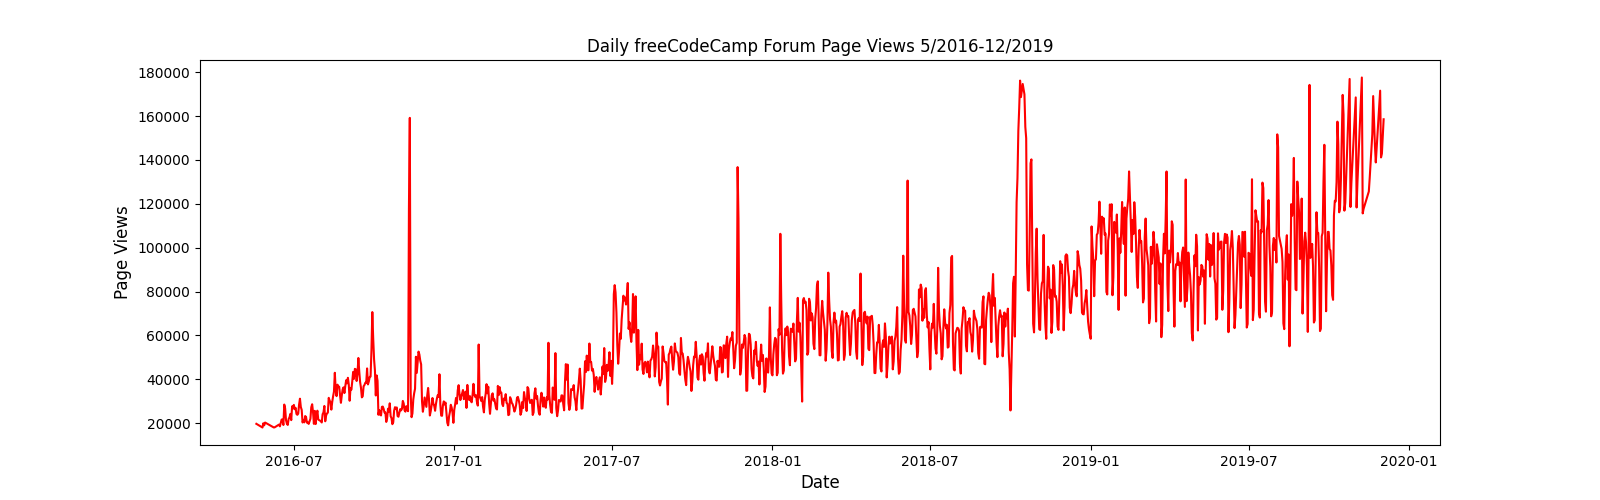
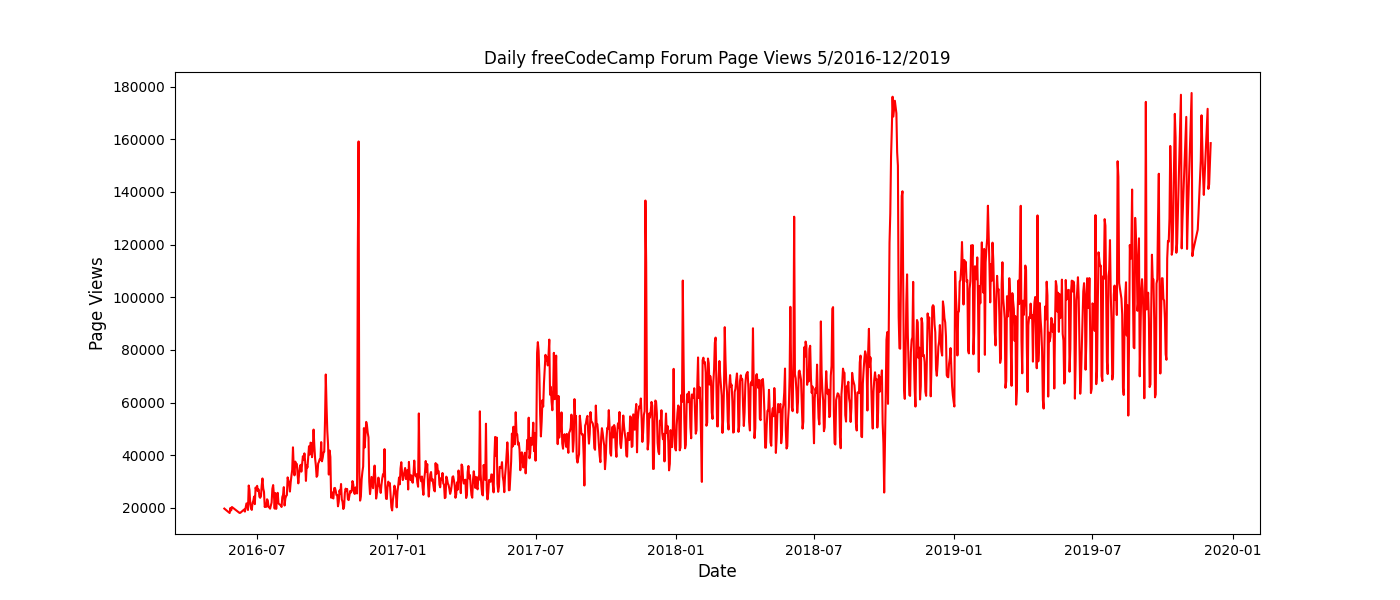
commit for drawing the second figure

diff --git a/time_series_visualizer.py b/time_series_visualizer.py
@@ -4,16 +4,43 @@ import seaborn as sns
 from pandas.plotting import register_matplotlib_converters
 register_matplotlib_converters()
 
+# /* ********************************************************************* */
+# /* ********************************************************************* */
+# /* ********************************************************************* */
+# /* ********************************************************************* */
+list_months=['January','February','March','April','May','June','July','August','September','October','November','December']
+# /* ********************************************************************* */
+# /* ********************************************************************* */
 # Import data (Make sure to parse dates. Consider setting index column to 'date'.)
 df = pd.read_csv('fcc-forum-pageviews.csv', index_col='date', sep=',', parse_dates=True)
-print(df)
+# print(df)
+# print(df.shape)
+# /* ********************************************************************* */
+# /* ********************************************************************* */
 # Clean data
-df = df[(df['value'] > df['value'].quantile(0.025)) & (df['value'] < df['value'].quantile(0.975))]
+# Clean the data by filtering out days when the page views were in the top 2.5% of the dataset or bottom 2.5% of the dataset
+#df = df[(df['value'] > df['value'].quantile(0.025)) & (df['value'] < df['value'].quantile(0.975))]
+# print("Bottom Quantile 2.5%: {}".format(df['value'].quantile(0.025)))
+# print("Top Quantile 2.5%: {}".format(df['value'].quantile(0.975)))
+
+df_1 = df['value'] <= df['value'].quantile(0.025)
+# print("df_1: {} Shape: {}".format(df_1, df_1.shape))
+df_2 = df['value'] >= df['value'].quantile(0.975)
+# print("df_2: {} Shape: {}".format(df_2, df_2.shape))
+cond = (df_1 | df_2)
+# print("Resulting df: {} Shape: {}".format(cond, cond.shape))
+df = df.drop(index=df[cond].index)
+# print("Cleaned df: {} Shape: {}".format(df, df.shape))
+
+# /* ********************************************************************* */
+# /* ********************************************************************* */
+# /* ********************************************************************* */
+# /* ********************************************************************* */
 
 def draw_line_plot():
     # Draw line plot
-    fig, axes= plt.subplots(figsize=(16,5))
-    plt.plot(df, color='red')
+    fig, axes= plt.subplots(figsize=(14,6))
+    plt.plot(df, linestyle="solid", marker=None, color='red')
     plt.title("Daily freeCodeCamp Forum Page Views 5/2016-12/2019", fontsize=12)
     plt.xlabel('Date', fontsize=12)
     plt.ylabel('Page Views', fontsize=12)
@@ -22,23 +49,51 @@ def draw_line_plot():
     fig.savefig('line_plot.png')
     return fig
 
+# /* ********************************************************************* */
+# /* ********************************************************************* */
+# /* ********************************************************************* */
+# /* ********************************************************************* */
+
 def draw_bar_plot():
     # Copy and modify data for monthly bar plot
-    df_bar = None
+    df_bar = df.copy()
+
+    df_bar['year'] = df_bar.index.year
+    df_bar['Month'] = df_bar.index.strftime('%B')
+    # df_grp = df_bar.groupby(['year', 'Month'])
+    # series
+    # df_grp['value'].apply(lambda x: x.mean())
 
     # Draw bar plot
+    #darkgrid, whitegrid, dark, white, ticks
+    sns.set_style("ticks")
+    # , palette="rocket"
+    g = sns.catplot(x="year", kind="bar", hue="Month", y="value", data=df_bar, hue_order=list_months, ci=None, legend=False, palette="bright")
 
-
-
-
+    fig = g.fig
+    ax = g.ax    
+    ax.set_ylabel('Average Page Views')
+    ax.set_xlabel('Years')
+    plt.xticks(rotation=90)
+    plt.legend(loc='upper left', title="Month")
+    plt.setp(ax.get_legend().get_texts(), fontsize='9')
+    plt.setp(ax.get_legend().get_title(), fontsize='9')
+    plt.tight_layout()
+    # Draw bar plot
 
     # Save image and return fig (don't change this part)
     fig.savefig('bar_plot.png')
     return fig
 
+# /* ********************************************************************* */
+# /* ********************************************************************* */
+# /* ********************************************************************* */
+# /* ********************************************************************* */
+
 def draw_box_plot():
     # Prepare data for box plots (this part is done!)
     df_box = df.copy()
+    print(df_box)
     df_box.reset_index(inplace=True)
     df_box['year'] = [d.year for d in df_box.date]
     df_box['month'] = [d.strftime('%b') for d in df_box.date]
